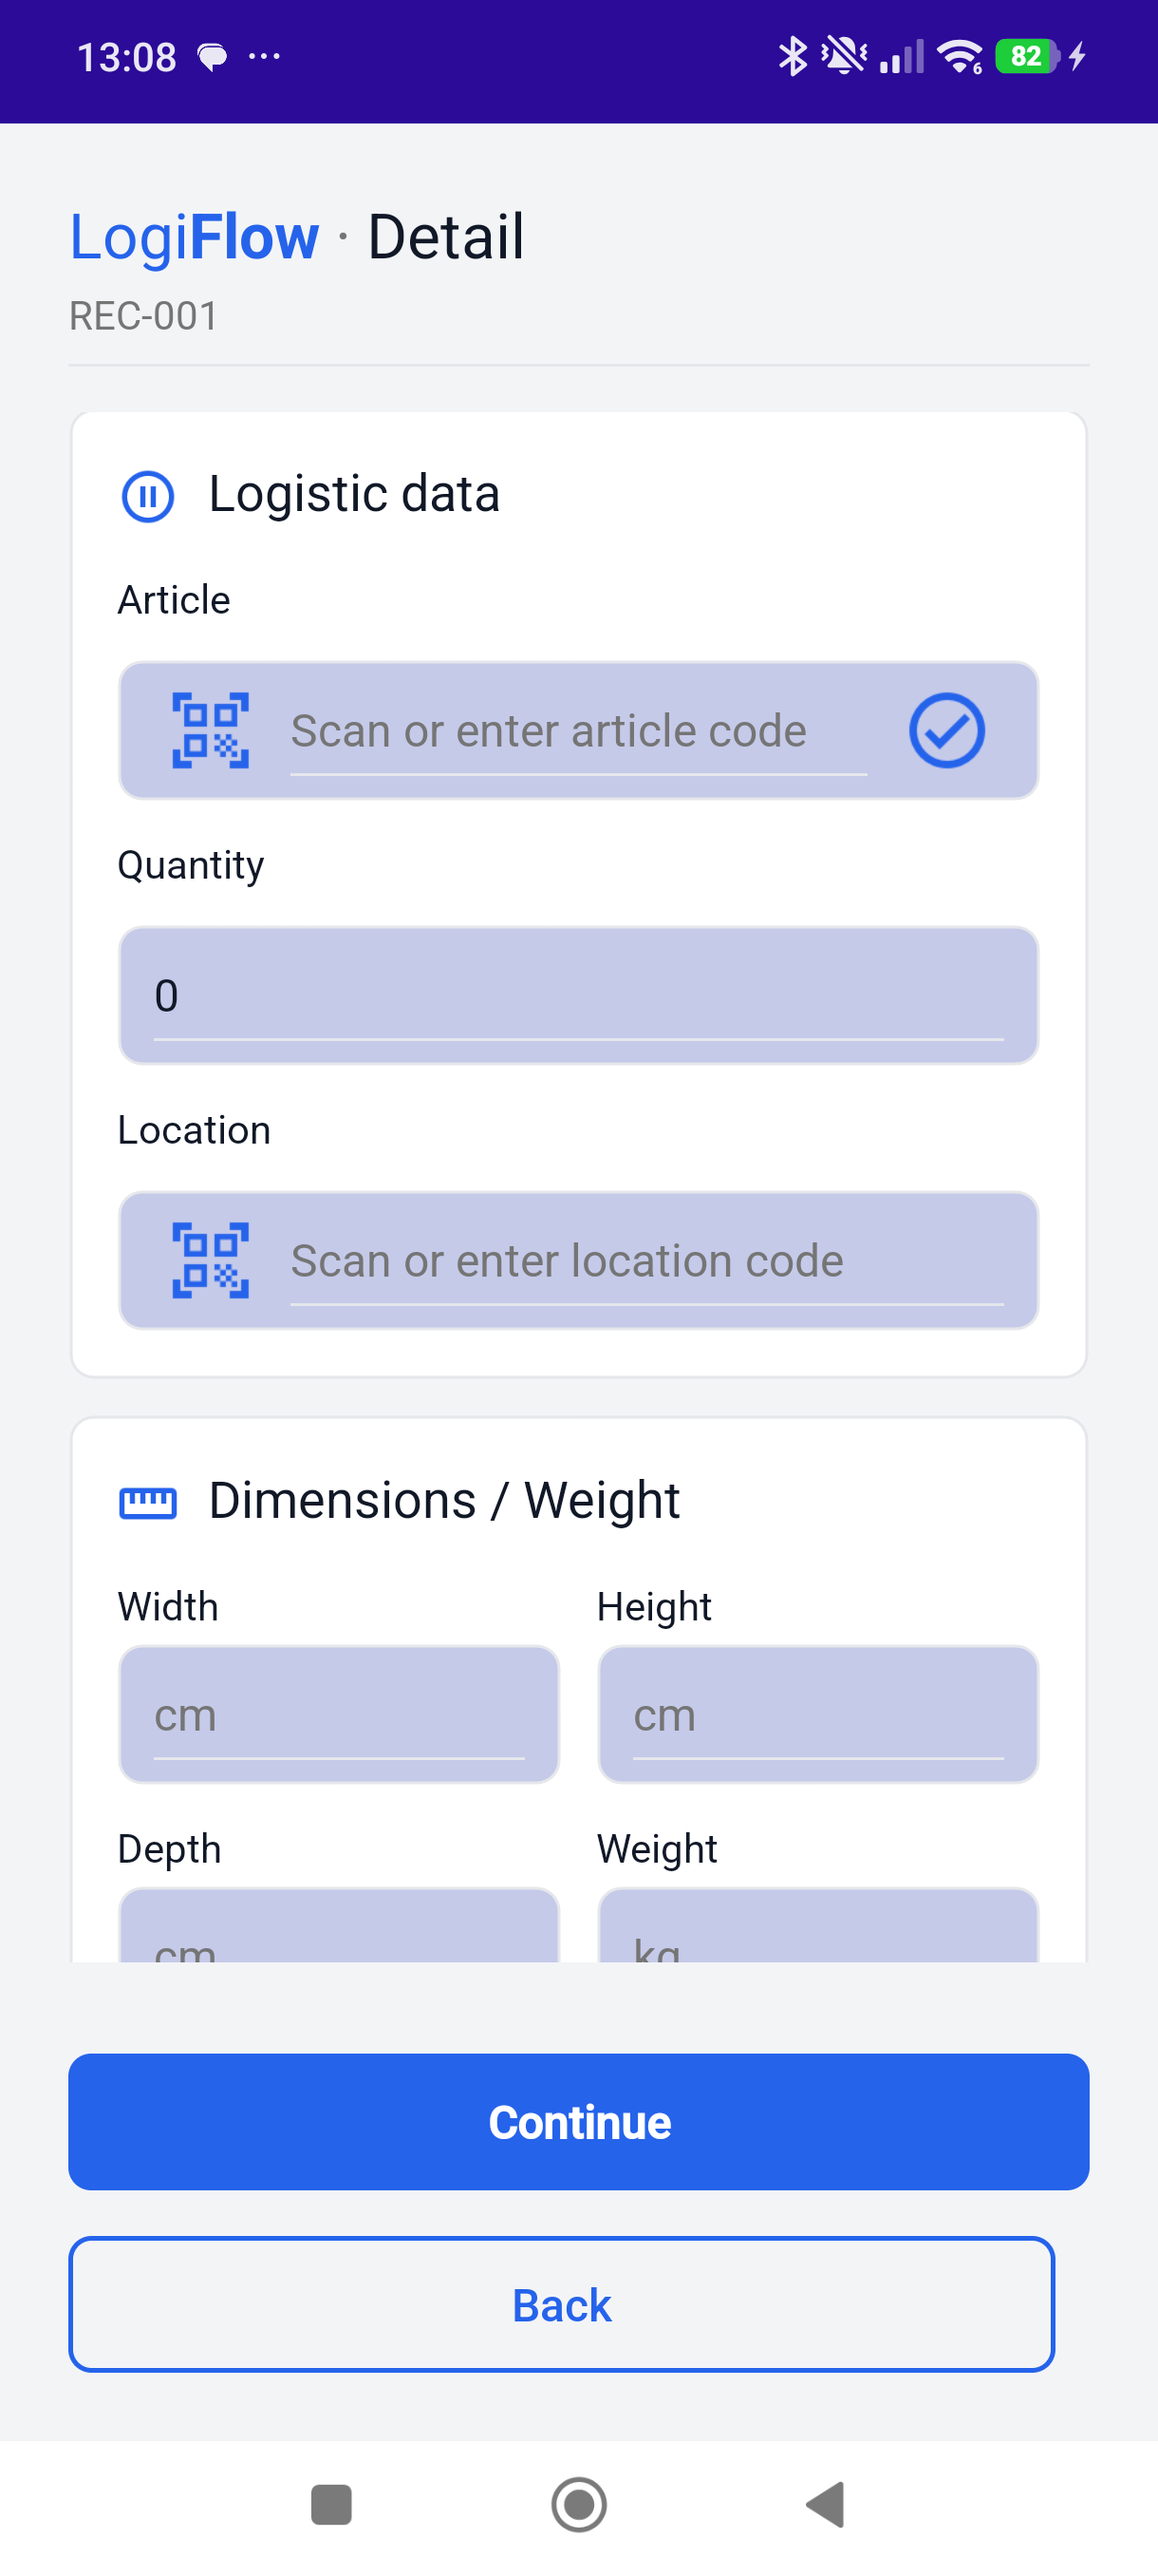
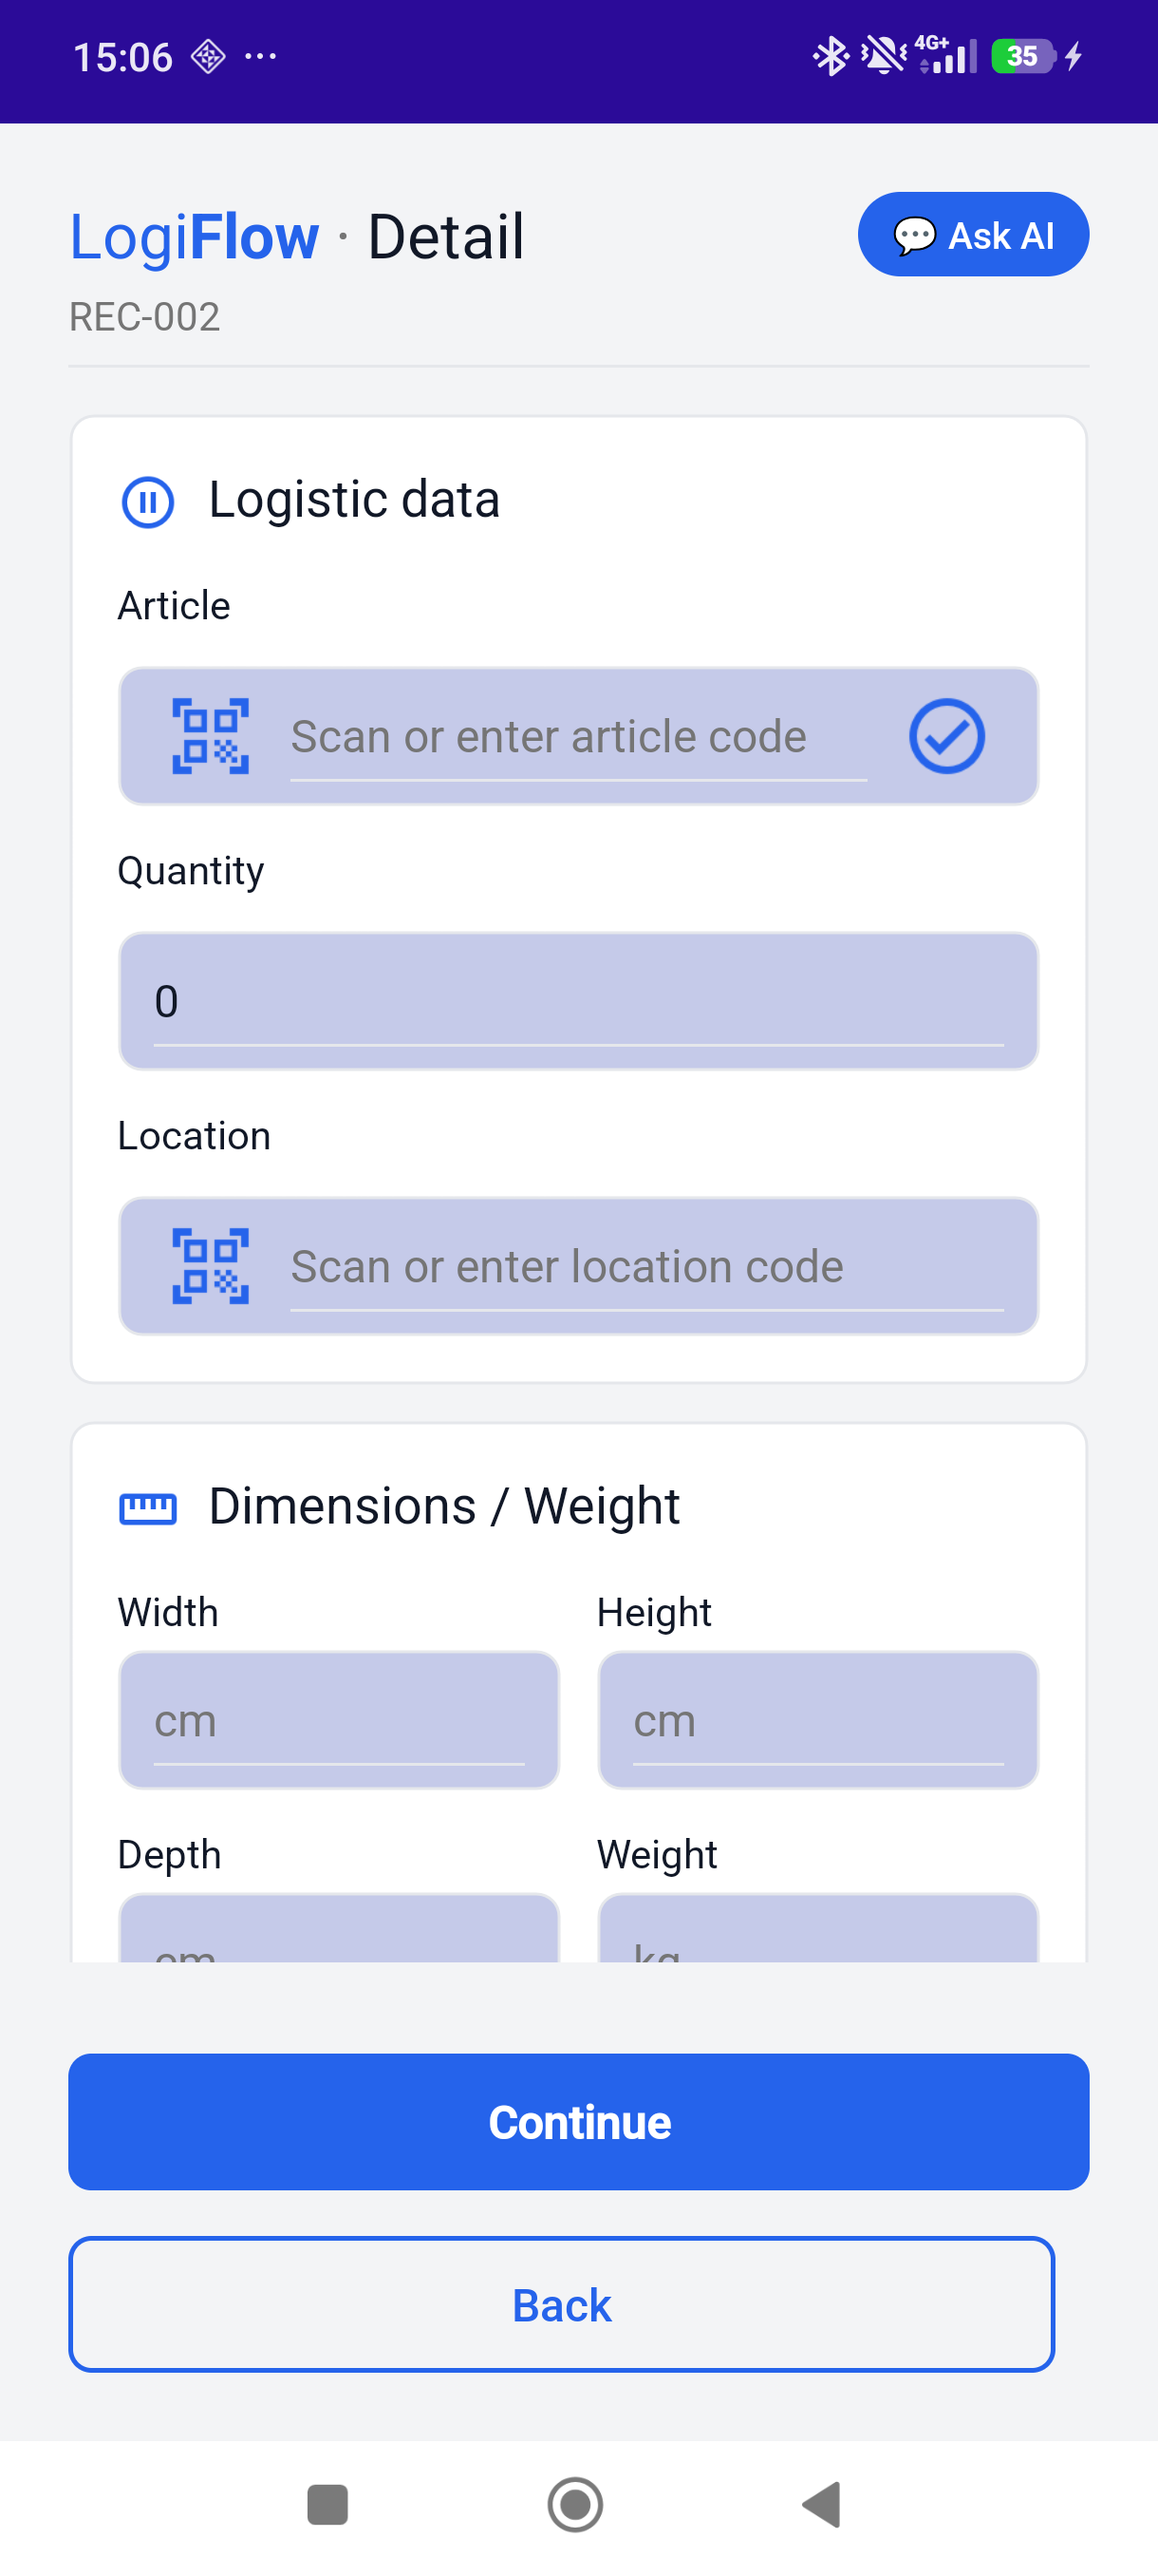
Update screenshots and documentation for AI chat feature
- Updated README images to show the Ask AI button on all Reception screens
- Added extra images for clarity and completeness
- Incremented version to 1.2.1 in documentation
- No functional changes; purely visual/documentation updates

diff --git a/RELEASE_NOTES.md b/RELEASE_NOTES.md
@@ -1,3 +1,8 @@
+## v1.2.1 - AI Contextual Assistant (documentation update)
+- Updated screenshots to show the Ask AI button on all 6 Reception screens
+- Added extra images for clarity and completeness
+- No code changes; purely documentation and visuals
+
 ## v1.2.0 - AI Contextual Assistant
 - Anthropic Claude API (claude-haiku-4-5) integrated as a contextual WMS assistant
 - 💬 Ask AI button available on all 6 Reception screens
